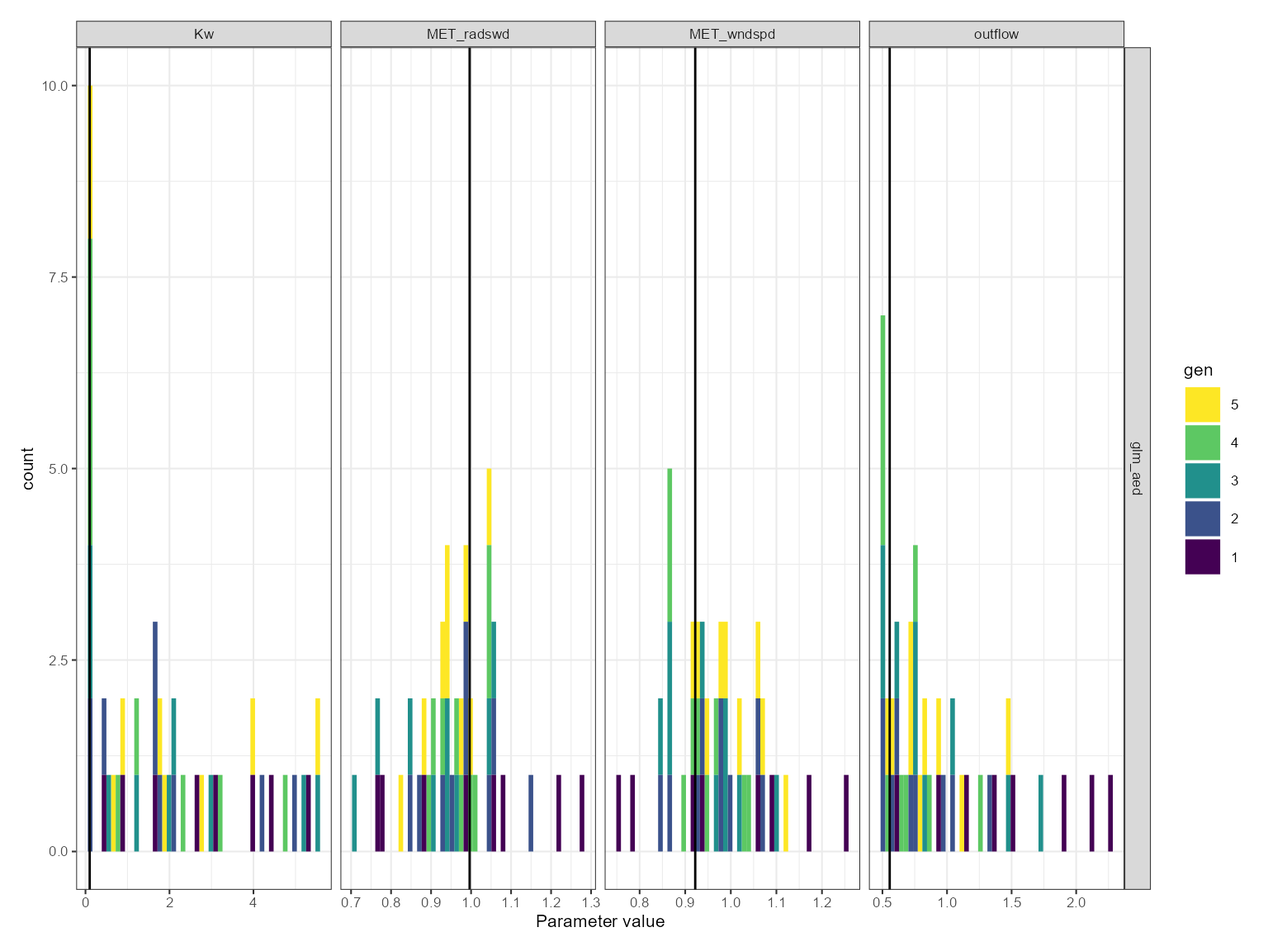
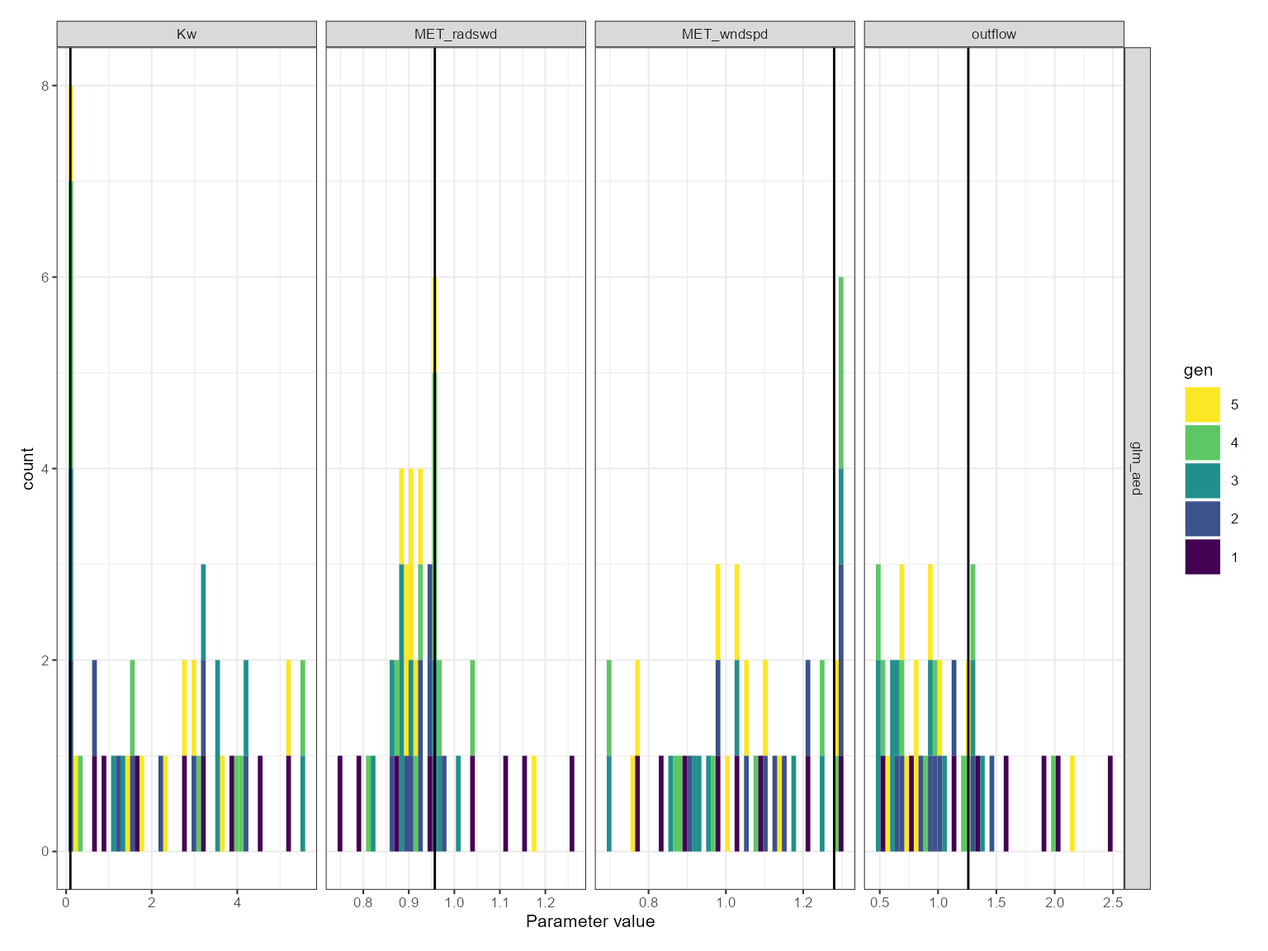
Deploying to gh-pages from @ limnotrack/aemetools@d132977c53890b8bdacb13775405228fc2e7135b 🚀

diff --git a/articles/calibrate-aeme.html b/articles/calibrate-aeme.html
@@ -123,7 +123,7 @@ setup. For this example, we will use the <code>glm_aed</code> model. The
 <span>                            model <span class="op">=</span> <span class="va">model</span>, mod_ctrls <span class="op">=</span> <span class="va">mod_ctrls</span>,</span>
 <span>                            inf_factor <span class="op">=</span> <span class="va">inf_factor</span>, ext_elev <span class="op">=</span> <span class="fl">5</span>,</span>
 <span>                            use_bgc <span class="op">=</span> <span class="cn">FALSE</span>, use_lw <span class="op">=</span> <span class="cn">TRUE</span><span class="op">)</span></span>
-<span><span class="co">#&gt; Building simulation for Wainamu [2023-11-02 09:11:32.365479]</span></span>
+<span><span class="co">#&gt; Building simulation for Wainamu [2023-11-02 09:31:55.920943]</span></span>
 <span><span class="co">#&gt; Using observed water level</span></span>
 <span><span class="co">#&gt; Estimating temperature using Stefan &amp; Preud'homme (2007)...</span></span>
 <span><span class="co">#&gt; Observed lake level is present. Updating initial lake model depth...</span></span>
@@ -135,9 +135,9 @@ make sure the current model setup is working.</p>
 <code class="sourceCode R"><span><span class="va">aeme_data</span> <span class="op">&lt;-</span> <span class="fu"><a href="https://rdrr.io/pkg/AEME/man/run_aeme.html" class="external-link">run_aeme</a></span><span class="op">(</span>aeme_data <span class="op">=</span> <span class="va">aeme_data</span>, model <span class="op">=</span> <span class="va">model</span>,</span>
 <span>                      verbose <span class="op">=</span> <span class="cn">FALSE</span>, mod_ctrls <span class="op">=</span> <span class="va">mod_ctrls</span>,</span>
 <span>                      path <span class="op">=</span> <span class="va">path</span><span class="op">)</span></span>
-<span><span class="co">#&gt; Running models... (Have you tried parallelizing?) [2023-11-02 09:11:33.769022]</span></span>
-<span><span class="co">#&gt; GLM-AED run successful! [2023-11-02 09:11:34.625174]</span></span>
-<span><span class="co">#&gt; Model run complete![2023-11-02 09:11:34.626018]</span></span>
+<span><span class="co">#&gt; Running models... (Have you tried parallelizing?) [2023-11-02 09:31:57.375046]</span></span>
+<span><span class="co">#&gt; GLM-AED run successful! [2023-11-02 09:31:58.226929]</span></span>
+<span><span class="co">#&gt; Model run complete![2023-11-02 09:31:58.228738]</span></span>
 <span><span class="co">#&gt; Retrieving and formatting temp for model glm_aed</span></span>
 <span><span class="co">#&gt; Retrieving and formatting salt for model glm_aed</span></span>
 <span><span class="co"># outp &lt;- AEME::output(aeme_data)</span></span>
@@ -238,9 +238,9 @@ but the model output is generate within the lake folder.</p>
 <div class="sourceCode" id="cb7"><pre class="downlit sourceCode r">
 <code class="sourceCode R"><span><span class="fu"><a href="../reference/run_aeme_param.html">run_aeme_param</a></span><span class="op">(</span>aeme_data <span class="op">=</span> <span class="va">aeme_data</span>, param <span class="op">=</span> <span class="va">aeme_parameters</span>,</span>
 <span>                 model <span class="op">=</span> <span class="va">model</span>, path <span class="op">=</span> <span class="va">path</span>, mod_ctrls <span class="op">=</span> <span class="va">mod_ctrls</span><span class="op">)</span></span>
-<span><span class="co">#&gt; Running models... (Have you tried parallelizing?) [2023-11-02 09:11:48.075168]</span></span>
-<span><span class="co">#&gt; GLM-AED run successful! [2023-11-02 09:11:48.807547]</span></span>
-<span><span class="co">#&gt; Model run complete![2023-11-02 09:11:48.808422]</span></span></code></pre></div>
+<span><span class="co">#&gt; Running models... (Have you tried parallelizing?) [2023-11-02 09:32:13.194233]</span></span>
+<span><span class="co">#&gt; GLM-AED run successful! [2023-11-02 09:32:14.04032]</span></span>
+<span><span class="co">#&gt; Model run complete![2023-11-02 09:32:14.041263]</span></span></code></pre></div>
 </div>
 <div class="section level2">
 <h2 id="calibration-setup">Calibration setup<a class="anchor" aria-label="anchor" href="#calibration-setup"></a>
@@ -311,7 +311,7 @@ This is only used if <code>parallel = TRUE</code>.</li>
 <p>Here is an example of the control parameters:</p>
 <div class="sourceCode" id="cb9"><pre class="downlit sourceCode r">
 <code class="sourceCode R"><span><span class="va">ctrl</span> <span class="op">&lt;-</span> <span class="fu"><a href="https://rdrr.io/r/base/list.html" class="external-link">list</a></span><span class="op">(</span>VTR <span class="op">=</span> <span class="fl">1</span>, NP <span class="op">=</span> <span class="fl">8</span>, itermax <span class="op">=</span> <span class="fl">40</span>, reltol <span class="op">=</span> <span class="fl">0.07</span>, p <span class="op">=</span> <span class="fl">0.25</span>,</span>
-<span>             mutate <span class="op">=</span> <span class="fl">0.1</span>, parallel <span class="op">=</span> <span class="cn">FALSE</span>, out_file <span class="op">=</span> <span class="st">"results.csv"</span>,</span>
+<span>             mutate <span class="op">=</span> <span class="fl">0.1</span>, parallel <span class="op">=</span> <span class="cn">TRUE</span>, out_file <span class="op">=</span> <span class="st">"results.csv"</span>,</span>
 <span>             na_value <span class="op">=</span> <span class="fl">999</span>, ncore <span class="op">=</span> <span class="fl">2L</span><span class="op">)</span></span></code></pre></div>
 </div>
 <div class="section level3">
@@ -374,183 +374,44 @@ values.</p>
 <span>                   param <span class="op">=</span> <span class="va">aeme_parameters</span>, model <span class="op">=</span> <span class="va">model</span>,</span>
 <span>                   mod_ctrls <span class="op">=</span> <span class="va">mod_ctrls</span>, FUN <span class="op">=</span> <span class="va">fit</span>, ctrl <span class="op">=</span> <span class="va">ctrl</span>,</span>
 <span>                   vars_sim <span class="op">=</span> <span class="va">vars_sim</span>, weights <span class="op">=</span> <span class="va">weights</span><span class="op">)</span></span>
-<span><span class="co">#&gt; Extracting indices for modelled variables [2023-11-02 09:11:49.198705]</span></span>
-<span><span class="co">#&gt; Complete! [2023-11-02 09:11:50.108993]</span></span>
-<span><span class="co">#&gt; Starting generation 1/5, 8 members. [2023-11-02 09:11:50.111565]</span></span>
+<span><span class="co">#&gt; Extracting indices for modelled variables [2023-11-02 09:32:14.455956]</span></span>
+<span><span class="co">#&gt; Complete! [2023-11-02 09:32:15.474137]</span></span>
+<span><span class="co">#&gt; Calibrating in parallel using 1 cores...</span></span>
+<span><span class="co">#&gt; Starting generation 1/5, 8 members. [2023-11-02 09:32:15.80126]</span></span>
 <span><span class="co">#&gt;        light.Kw MET_wndspd MET_radswd outflow</span></span>
-<span><span class="co">#&gt; mean      2.799     0.9967      1.007  1.4820</span></span>
-<span><span class="co">#&gt; median    2.856     0.9974      1.021  1.4310</span></span>
-<span><span class="co">#&gt; sd        1.718     0.1795      0.190  0.5879</span></span>
-<span><span class="co">#&gt; Running models... (Have you tried parallelizing?) [2023-11-02 09:11:50.20196]</span></span>
-<span><span class="co">#&gt; GLM-AED run successful! [2023-11-02 09:11:50.966075]</span></span>
-<span><span class="co">#&gt; Model run complete![2023-11-02 09:11:50.966951]</span></span>
-<span><span class="co">#&gt; [1] 342.9807</span></span>
-<span><span class="co">#&gt; Running models... (Have you tried parallelizing?) [2023-11-02 09:11:51.145638]</span></span>
-<span><span class="co">#&gt; GLM-AED run successful! [2023-11-02 09:11:51.888557]</span></span>
-<span><span class="co">#&gt; Model run complete![2023-11-02 09:11:51.889425]</span></span>
-<span><span class="co">#&gt; [1] 595.6504</span></span>
-<span><span class="co">#&gt; Running models... (Have you tried parallelizing?) [2023-11-02 09:11:52.063206]</span></span>
-<span><span class="co">#&gt; GLM-AED run successful! [2023-11-02 09:11:53.014418]</span></span>
-<span><span class="co">#&gt; Model run complete![2023-11-02 09:11:53.015425]</span></span>
-<span><span class="co">#&gt; [1] 3.282903</span></span>
-<span><span class="co">#&gt; Running models... (Have you tried parallelizing?) [2023-11-02 09:11:53.182086]</span></span>
-<span><span class="co">#&gt; GLM-AED run successful! [2023-11-02 09:11:53.811705]</span></span>
-<span><span class="co">#&gt; Model run complete![2023-11-02 09:11:53.813299]</span></span>
-<span><span class="co">#&gt; [1] 5.360576</span></span>
-<span><span class="co">#&gt; Running models... (Have you tried parallelizing?) [2023-11-02 09:11:53.987231]</span></span>
-<span><span class="co">#&gt; GLM-AED run successful! [2023-11-02 09:11:54.846827]</span></span>
-<span><span class="co">#&gt; Model run complete![2023-11-02 09:11:54.847695]</span></span>
-<span><span class="co">#&gt; [1] 3.952922</span></span>
-<span><span class="co">#&gt; Running models... (Have you tried parallelizing?) [2023-11-02 09:11:55.018532]</span></span>
-<span><span class="co">#&gt; GLM-AED run successful! [2023-11-02 09:11:55.64335]</span></span>
-<span><span class="co">#&gt; Model run complete![2023-11-02 09:11:55.644208]</span></span>
-<span><span class="co">#&gt; [1] 688.5734</span></span>
-<span><span class="co">#&gt; Running models... (Have you tried parallelizing?) [2023-11-02 09:11:55.835502]</span></span>
-<span><span class="co">#&gt; GLM-AED run successful! [2023-11-02 09:11:56.472169]</span></span>
-<span><span class="co">#&gt; Model run complete![2023-11-02 09:11:56.473044]</span></span>
-<span><span class="co">#&gt; [1] 688.5872</span></span>
-<span><span class="co">#&gt; Running models... (Have you tried parallelizing?) [2023-11-02 09:11:56.643783]</span></span>
-<span><span class="co">#&gt; GLM-AED run successful! [2023-11-02 09:11:57.269889]</span></span>
-<span><span class="co">#&gt; Model run complete![2023-11-02 09:11:57.271146]</span></span>
-<span><span class="co">#&gt; [1] 688.5899</span></span>
-<span><span class="co">#&gt; Best fit: 3.283 (sd: 328.886)</span></span>
-<span><span class="co">#&gt;             Parameters: [0.471, 0.939, 0.982, 0.604]</span></span>
+<span><span class="co">#&gt; mean      2.845     1.0140     0.9903  1.4730</span></span>
+<span><span class="co">#&gt; median    2.984     1.0070     0.9933  1.4570</span></span>
+<span><span class="co">#&gt; sd        1.671     0.1841     0.1805  0.6551</span></span>
+<span><span class="co">#&gt; Best fit: 3.394 (sd: 328.835)</span></span>
+<span><span class="co">#&gt;             Parameters: [0.694, 1.214, 0.943, 1.136]</span></span>
 <span><span class="co">#&gt; Survival rate: 1</span></span>
-<span><span class="co">#&gt; Starting generation 2/5, 8 members. [2023-11-02 09:11:57.357352]</span></span>
+<span><span class="co">#&gt; Starting generation 2/5, 8 members. [2023-11-02 09:32:25.938368]</span></span>
 <span><span class="co">#&gt;        light.Kw MET_wndspd MET_radswd outflow</span></span>
-<span><span class="co">#&gt; mean      1.887    0.96170    0.98120  0.7727</span></span>
-<span><span class="co">#&gt; median    1.623    0.97740    0.98150  0.7114</span></span>
-<span><span class="co">#&gt; sd        1.717    0.07471    0.09505  0.2805</span></span>
-<span><span class="co">#&gt; Running models... (Have you tried parallelizing?) [2023-11-02 09:11:57.45791]</span></span>
-<span><span class="co">#&gt; GLM-AED run successful! [2023-11-02 09:11:58.410925]</span></span>
-<span><span class="co">#&gt; Model run complete![2023-11-02 09:11:58.411897]</span></span>
-<span><span class="co">#&gt; Running models... (Have you tried parallelizing?) [2023-11-02 09:11:58.584063]</span></span>
-<span><span class="co">#&gt; GLM-AED run successful! [2023-11-02 09:11:59.301869]</span></span>
-<span><span class="co">#&gt; Model run complete![2023-11-02 09:11:59.30277]</span></span>
-<span><span class="co">#&gt; Running models... (Have you tried parallelizing?) [2023-11-02 09:11:59.46982]</span></span>
-<span><span class="co">#&gt; GLM-AED run successful! [2023-11-02 09:12:00.42801]</span></span>
-<span><span class="co">#&gt; Model run complete![2023-11-02 09:12:00.428918]</span></span>
-<span><span class="co">#&gt; Running models... (Have you tried parallelizing?) [2023-11-02 09:12:00.600046]</span></span>
-<span><span class="co">#&gt; GLM-AED run successful! [2023-11-02 09:12:01.553491]</span></span>
-<span><span class="co">#&gt; Model run complete![2023-11-02 09:12:01.5544]</span></span>
-<span><span class="co">#&gt; Running models... (Have you tried parallelizing?) [2023-11-02 09:12:01.71769]</span></span>
-<span><span class="co">#&gt; GLM-AED run successful! [2023-11-02 09:12:02.585747]</span></span>
-<span><span class="co">#&gt; Model run complete![2023-11-02 09:12:02.587701]</span></span>
-<span><span class="co">#&gt; Running models... (Have you tried parallelizing?) [2023-11-02 09:12:02.761414]</span></span>
-<span><span class="co">#&gt; GLM-AED run successful! [2023-11-02 09:12:03.617376]</span></span>
-<span><span class="co">#&gt; Model run complete![2023-11-02 09:12:03.618307]</span></span>
-<span><span class="co">#&gt; Running models... (Have you tried parallelizing?) [2023-11-02 09:12:03.79105]</span></span>
-<span><span class="co">#&gt; GLM-AED run successful! [2023-11-02 09:12:04.634182]</span></span>
-<span><span class="co">#&gt; Model run complete![2023-11-02 09:12:04.635055]</span></span>
-<span><span class="co">#&gt; Running models... (Have you tried parallelizing?) [2023-11-02 09:12:04.821616]</span></span>
-<span><span class="co">#&gt; GLM-AED run successful! [2023-11-02 09:12:05.681787]</span></span>
-<span><span class="co">#&gt; Model run complete![2023-11-02 09:12:05.683108]</span></span>
-<span><span class="co">#&gt; Running models... (Have you tried parallelizing?) [2023-11-02 09:12:05.859446]</span></span>
-<span><span class="co">#&gt; GLM-AED run successful! [2023-11-02 09:12:06.713639]</span></span>
-<span><span class="co">#&gt; Model run complete![2023-11-02 09:12:06.714891]</span></span>
-<span><span class="co">#&gt; Best fit: 2.3779 (sd: 0.9825)</span></span>
+<span><span class="co">#&gt; mean      1.814     1.1270    0.92850  0.9986</span></span>
+<span><span class="co">#&gt; median    1.542     1.1270    0.93080  0.9761</span></span>
+<span><span class="co">#&gt; sd        1.441     0.1322    0.03443  0.2621</span></span>
+<span><span class="co">#&gt; Best fit: 2.5185 (sd: 160.71)</span></span>
 <span><span class="co">#&gt; Survival rate: 1</span></span>
-<span><span class="co">#&gt; Starting generation 3/5, 8 members. [2023-11-02 09:12:06.79754]</span></span>
+<span><span class="co">#&gt; Starting generation 3/5, 8 members. [2023-11-02 09:32:35.238828]</span></span>
 <span><span class="co">#&gt;        light.Kw MET_wndspd MET_radswd outflow</span></span>
-<span><span class="co">#&gt; mean      2.195    0.95430     0.9078  0.9076</span></span>
-<span><span class="co">#&gt; median    2.011    0.96300     0.9352  0.7515</span></span>
-<span><span class="co">#&gt; sd        2.040    0.08333     0.1170  0.4270</span></span>
-<span><span class="co">#&gt; Running models... (Have you tried parallelizing?) [2023-11-02 09:12:06.88661]</span></span>
-<span><span class="co">#&gt; GLM-AED run successful! [2023-11-02 09:12:07.620172]</span></span>
-<span><span class="co">#&gt; Model run complete![2023-11-02 09:12:07.621644]</span></span>
-<span><span class="co">#&gt; Running models... (Have you tried parallelizing?) [2023-11-02 09:12:07.796054]</span></span>
-<span><span class="co">#&gt; GLM-AED run successful! [2023-11-02 09:12:08.417644]</span></span>
-<span><span class="co">#&gt; Model run complete![2023-11-02 09:12:08.418763]</span></span>
-<span><span class="co">#&gt; Running models... (Have you tried parallelizing?) [2023-11-02 09:12:08.739979]</span></span>
-<span><span class="co">#&gt; GLM-AED run successful! [2023-11-02 09:12:09.714504]</span></span>
-<span><span class="co">#&gt; Model run complete![2023-11-02 09:12:09.715387]</span></span>
-<span><span class="co">#&gt; Running models... (Have you tried parallelizing?) [2023-11-02 09:12:09.872001]</span></span>
-<span><span class="co">#&gt; GLM-AED run successful! [2023-11-02 09:12:10.731821]</span></span>
-<span><span class="co">#&gt; Model run complete![2023-11-02 09:12:10.733134]</span></span>
-<span><span class="co">#&gt; Running models... (Have you tried parallelizing?) [2023-11-02 09:12:10.912286]</span></span>
-<span><span class="co">#&gt; GLM-AED run successful! [2023-11-02 09:12:11.778909]</span></span>
-<span><span class="co">#&gt; Model run complete![2023-11-02 09:12:11.779956]</span></span>
-<span><span class="co">#&gt; Running models... (Have you tried parallelizing?) [2023-11-02 09:12:11.94389]</span></span>
-<span><span class="co">#&gt; GLM-AED run successful! [2023-11-02 09:12:12.920076]</span></span>
-<span><span class="co">#&gt; Model run complete![2023-11-02 09:12:12.920961]</span></span>
-<span><span class="co">#&gt; Running models... (Have you tried parallelizing?) [2023-11-02 09:12:13.083306]</span></span>
-<span><span class="co">#&gt; GLM-AED run successful! [2023-11-02 09:12:13.936432]</span></span>
-<span><span class="co">#&gt; Model run complete![2023-11-02 09:12:13.937525]</span></span>
-<span><span class="co">#&gt; Running models... (Have you tried parallelizing?) [2023-11-02 09:12:14.111284]</span></span>
-<span><span class="co">#&gt; GLM-AED run successful! [2023-11-02 09:12:14.953402]</span></span>
-<span><span class="co">#&gt; Model run complete![2023-11-02 09:12:14.954302]</span></span>
-<span><span class="co">#&gt; Running models... (Have you tried parallelizing?) [2023-11-02 09:12:15.125678]</span></span>
-<span><span class="co">#&gt; GLM-AED run successful! [2023-11-02 09:12:16.094333]</span></span>
-<span><span class="co">#&gt; Model run complete![2023-11-02 09:12:16.095229]</span></span>
-<span><span class="co">#&gt; Best fit: 2.3667 (sd: 262.41)</span></span>
+<span><span class="co">#&gt; mean      2.523     1.0110     0.9092  0.8325</span></span>
+<span><span class="co">#&gt; median    3.250     0.9536     0.8873  0.6539</span></span>
+<span><span class="co">#&gt; sd        1.917     0.1943     0.0585  0.3399</span></span>
+<span><span class="co">#&gt; Best fit: 2.5185 (sd: 160.71)</span></span>
 <span><span class="co">#&gt; Survival rate: 1</span></span>
-<span><span class="co">#&gt; Starting generation 4/5, 8 members. [2023-11-02 09:12:16.178965]</span></span>
+<span><span class="co">#&gt; Starting generation 4/5, 8 members. [2023-11-02 09:32:45.006573]</span></span>
 <span><span class="co">#&gt;        light.Kw MET_wndspd MET_radswd outflow</span></span>
-<span><span class="co">#&gt; mean     1.4010    0.93890    0.97270  0.6967</span></span>
-<span><span class="co">#&gt; median   0.8038    0.92420    0.97170  0.6348</span></span>
-<span><span class="co">#&gt; sd       1.6630    0.06525    0.05778  0.2514</span></span>
-<span><span class="co">#&gt; Running models... (Have you tried parallelizing?) [2023-11-02 09:12:16.269357]</span></span>
-<span><span class="co">#&gt; GLM-AED run successful! [2023-11-02 09:12:17.141736]</span></span>
-<span><span class="co">#&gt; Model run complete![2023-11-02 09:12:17.143001]</span></span>
-<span><span class="co">#&gt; Running models... (Have you tried parallelizing?) [2023-11-02 09:12:17.316039]</span></span>
-<span><span class="co">#&gt; GLM-AED run successful! [2023-11-02 09:12:18.282621]</span></span>
-<span><span class="co">#&gt; Model run complete![2023-11-02 09:12:18.283919]</span></span>
-<span><span class="co">#&gt; Running models... (Have you tried parallelizing?) [2023-11-02 09:12:18.442729]</span></span>
-<span><span class="co">#&gt; GLM-AED run successful! [2023-11-02 09:12:19.189142]</span></span>
-<span><span class="co">#&gt; Model run complete![2023-11-02 09:12:19.190089]</span></span>
-<span><span class="co">#&gt; Running models... (Have you tried parallelizing?) [2023-11-02 09:12:19.355895]</span></span>
-<span><span class="co">#&gt; GLM-AED run successful! [2023-11-02 09:12:20.205596]</span></span>
-<span><span class="co">#&gt; Model run complete![2023-11-02 09:12:20.206485]</span></span>
-<span><span class="co">#&gt; Running models... (Have you tried parallelizing?) [2023-11-02 09:12:20.369064]</span></span>
-<span><span class="co">#&gt; GLM-AED run successful! [2023-11-02 09:12:21.221683]</span></span>
-<span><span class="co">#&gt; Model run complete![2023-11-02 09:12:21.22257]</span></span>
-<span><span class="co">#&gt; Running models... (Have you tried parallelizing?) [2023-11-02 09:12:21.381847]</span></span>
-<span><span class="co">#&gt; GLM-AED run successful! [2023-11-02 09:12:22.363019]</span></span>
-<span><span class="co">#&gt; Model run complete![2023-11-02 09:12:22.363873]</span></span>
-<span><span class="co">#&gt; Running models... (Have you tried parallelizing?) [2023-11-02 09:12:22.529741]</span></span>
-<span><span class="co">#&gt; GLM-AED run successful! [2023-11-02 09:12:23.394629]</span></span>
-<span><span class="co">#&gt; Model run complete![2023-11-02 09:12:23.395507]</span></span>
-<span><span class="co">#&gt; Running models... (Have you tried parallelizing?) [2023-11-02 09:12:23.562805]</span></span>
-<span><span class="co">#&gt; GLM-AED run successful! [2023-11-02 09:12:24.311419]</span></span>
-<span><span class="co">#&gt; Model run complete![2023-11-02 09:12:24.312275]</span></span>
-<span><span class="co">#&gt; Running models... (Have you tried parallelizing?) [2023-11-02 09:12:24.474403]</span></span>
-<span><span class="co">#&gt; GLM-AED run successful! [2023-11-02 09:12:25.334014]</span></span>
-<span><span class="co">#&gt; Model run complete![2023-11-02 09:12:25.334916]</span></span>
-<span><span class="co">#&gt; Best fit: 2.3335 (sd: 0.85778)</span></span>
+<span><span class="co">#&gt; mean      2.093     1.0710    0.93340  1.0320</span></span>
+<span><span class="co">#&gt; median    1.560     1.0830    0.95170  0.9727</span></span>
+<span><span class="co">#&gt; sd        2.115     0.2244    0.06421  0.4646</span></span>
+<span><span class="co">#&gt; Best fit: 2.493 (sd: 228.34)</span></span>
 <span><span class="co">#&gt; Survival rate: 1</span></span>
-<span><span class="co">#&gt; Starting generation 5/5, 8 members. [2023-11-02 09:12:25.41997]</span></span>
+<span><span class="co">#&gt; Starting generation 5/5, 8 members. [2023-11-02 09:32:54.302394]</span></span>
 <span><span class="co">#&gt;        light.Kw MET_wndspd MET_radswd outflow</span></span>
-<span><span class="co">#&gt; mean      1.946    1.00300    0.94680  0.8538</span></span>
-<span><span class="co">#&gt; median    1.723    0.98670    0.94480  0.7791</span></span>
-<span><span class="co">#&gt; sd        1.835    0.06851    0.06481  0.2883</span></span>
-<span><span class="co">#&gt; Running models... (Have you tried parallelizing?) [2023-11-02 09:12:25.517783]</span></span>
-<span><span class="co">#&gt; GLM-AED run successful! [2023-11-02 09:12:26.475479]</span></span>
-<span><span class="co">#&gt; Model run complete![2023-11-02 09:12:26.47644]</span></span>
-<span><span class="co">#&gt; Running models... (Have you tried parallelizing?) [2023-11-02 09:12:26.659704]</span></span>
-<span><span class="co">#&gt; GLM-AED run successful! [2023-11-02 09:12:27.616309]</span></span>
-<span><span class="co">#&gt; Model run complete![2023-11-02 09:12:27.617526]</span></span>
-<span><span class="co">#&gt; Running models... (Have you tried parallelizing?) [2023-11-02 09:12:27.804423]</span></span>
-<span><span class="co">#&gt; GLM-AED run successful! [2023-11-02 09:12:28.538762]</span></span>
-<span><span class="co">#&gt; Model run complete![2023-11-02 09:12:28.539711]</span></span>
-<span><span class="co">#&gt; Running models... (Have you tried parallelizing?) [2023-11-02 09:12:28.700505]</span></span>
-<span><span class="co">#&gt; GLM-AED run successful! [2023-11-02 09:12:29.67979]</span></span>
-<span><span class="co">#&gt; Model run complete![2023-11-02 09:12:29.68068]</span></span>
-<span><span class="co">#&gt; Running models... (Have you tried parallelizing?) [2023-11-02 09:12:29.855507]</span></span>
-<span><span class="co">#&gt; GLM-AED run successful! [2023-11-02 09:12:30.712218]</span></span>
-<span><span class="co">#&gt; Model run complete![2023-11-02 09:12:30.713088]</span></span>
-<span><span class="co">#&gt; Running models... (Have you tried parallelizing?) [2023-11-02 09:12:30.876894]</span></span>
-<span><span class="co">#&gt; GLM-AED run successful! [2023-11-02 09:12:31.619397]</span></span>
-<span><span class="co">#&gt; Model run complete![2023-11-02 09:12:31.620561]</span></span>
-<span><span class="co">#&gt; Running models... (Have you tried parallelizing?) [2023-11-02 09:12:31.791812]</span></span>
-<span><span class="co">#&gt; GLM-AED run successful! [2023-11-02 09:12:32.635188]</span></span>
-<span><span class="co">#&gt; Model run complete![2023-11-02 09:12:32.636073]</span></span>
-<span><span class="co">#&gt; Running models... (Have you tried parallelizing?) [2023-11-02 09:12:32.801953]</span></span>
-<span><span class="co">#&gt; GLM-AED run successful! [2023-11-02 09:12:33.651281]</span></span>
-<span><span class="co">#&gt; Model run complete![2023-11-02 09:12:33.652359]</span></span>
-<span><span class="co">#&gt; Running models... (Have you tried parallelizing?) [2023-11-02 09:12:33.8236]</span></span>
-<span><span class="co">#&gt; GLM-AED run successful! [2023-11-02 09:12:34.776502]</span></span>
-<span><span class="co">#&gt; Model run complete![2023-11-02 09:12:34.777387]</span></span>
-<span><span class="co">#&gt; Best fit: 2.3335 (sd: 197.35)</span></span>
+<span><span class="co">#&gt; mean      2.267      1.013    0.94030  1.0010</span></span>
+<span><span class="co">#&gt; median    2.332      1.030    0.90730  0.8271</span></span>
+<span><span class="co">#&gt; sd        1.607      0.166    0.09158  0.4754</span></span>
+<span><span class="co">#&gt; Best fit: 2.493 (sd: 228.33)</span></span>
 <span><span class="co">#&gt; Survival rate: 1</span></span></code></pre></div>
 </div>
 <div class="section level2 tabset">

diff --git a/articles/download-era5.html b/articles/download-era5.html
@@ -95,8 +95,8 @@ your computer to speed up the download.</p>
 <span><span class="va">met</span> <span class="op">&lt;-</span> <span class="fu"><a href="../reference/get_era5_point.html">get_era5_point</a></span><span class="op">(</span>lat <span class="op">=</span> <span class="va">lat</span>, lon <span class="op">=</span> <span class="va">lon</span>, years <span class="op">=</span> <span class="fl">2000</span><span class="op">:</span><span class="fl">2001</span>,</span>
 <span>                      variables <span class="op">=</span> <span class="va">variables</span>, format <span class="op">=</span> <span class="st">"aeme"</span>, parallel <span class="op">=</span> <span class="cn">TRUE</span><span class="op">)</span></span>
 <span><span class="co">#&gt; Auto-refreshing stale OAuth token.</span></span>
-<span><span class="co">#&gt; Downloading ERA5 variables in parallel... [2023-11-02 09:12:47.405209]</span></span>
-<span><span class="co">#&gt; Finished downloading ERA5 variables! [2023-11-02 09:12:57.829297]</span></span>
+<span><span class="co">#&gt; Downloading ERA5 variables in parallel... [2023-11-02 09:33:16.481138]</span></span>
+<span><span class="co">#&gt; Finished downloading ERA5 variables! [2023-11-02 09:33:28.704127]</span></span>
 <span><span class="fu"><a href="https://rdrr.io/r/base/summary.html" class="external-link">summary</a></span><span class="op">(</span><span class="va">met</span><span class="op">)</span></span>
 <span><span class="co">#&gt;       Date              MET_tmpair       MET_pprain     </span></span>
 <span><span class="co">#&gt;  Min.   :2000-01-01   Min.   : 3.407   Min.   : 0.0000  </span></span>
